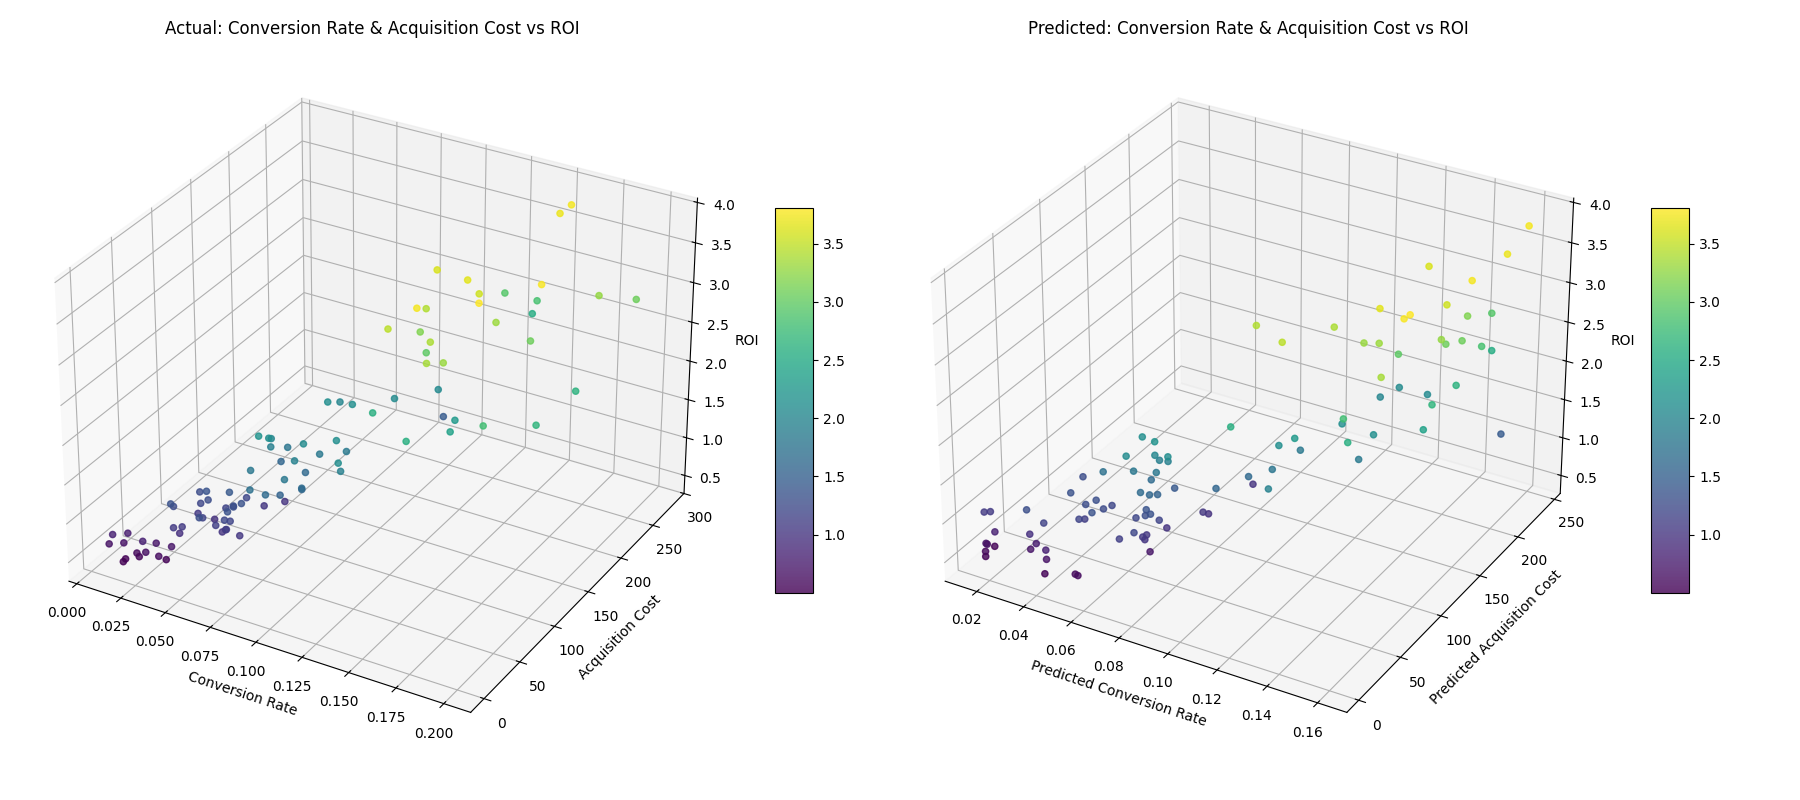
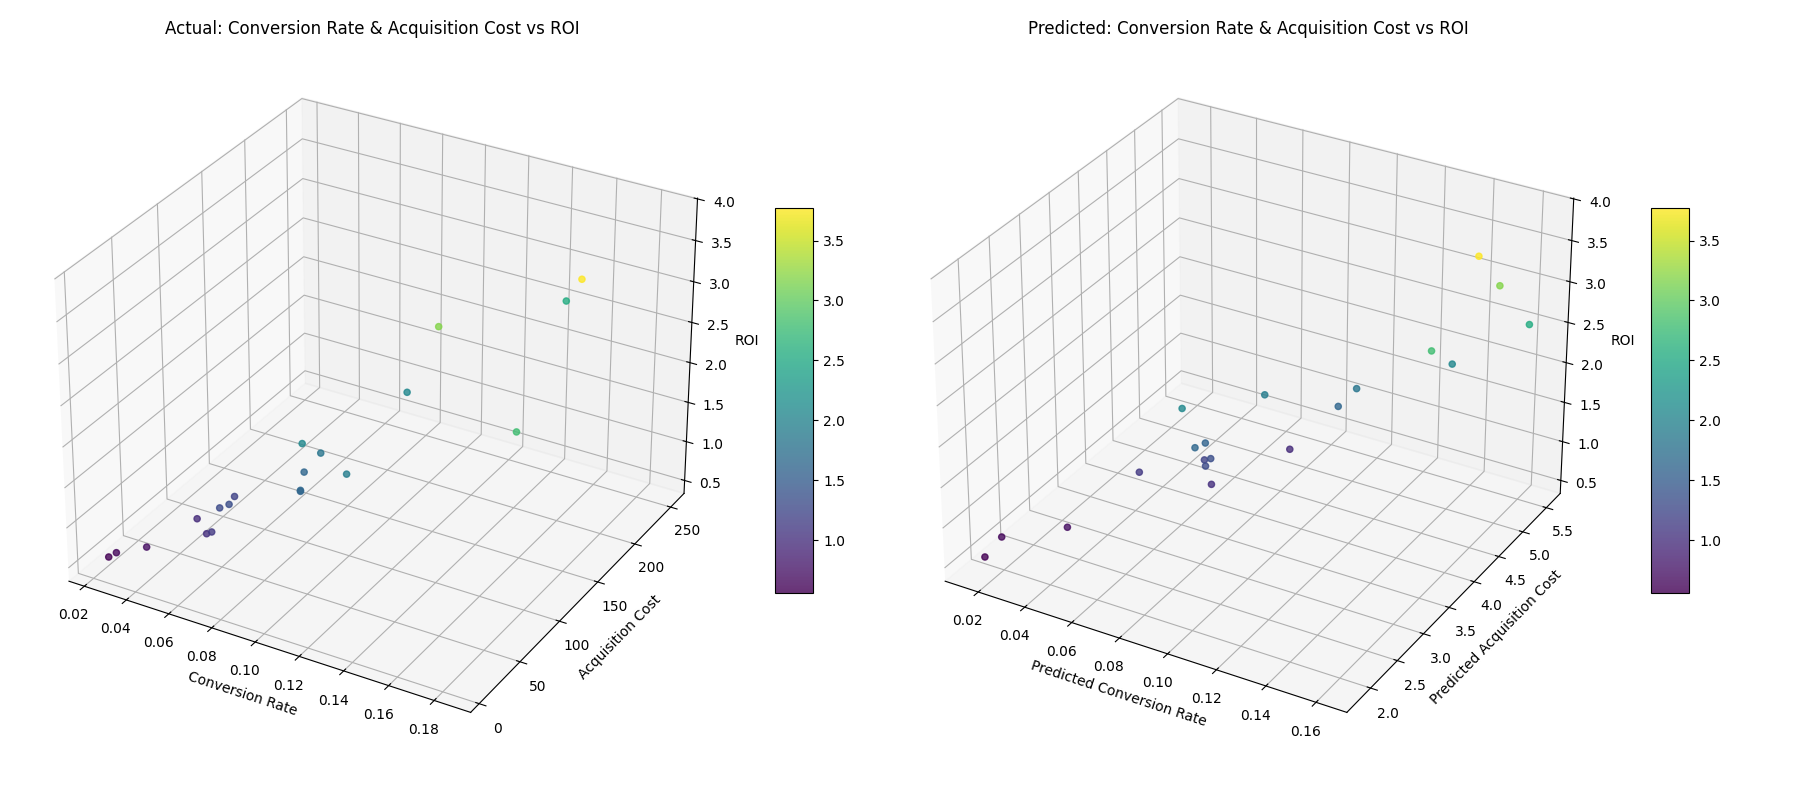
Updated campaign ROI to include train test split

diff --git a/measuring_campaign_roi/scripts/main.py b/measuring_campaign_roi/scripts/main.py
@@ -1,11 +1,12 @@
 import os
+from sklearn.model_selection import train_test_split
 from load_data import load_data
 from data_preprocessing import preprocess_data
 from eda import plot_boxplots, plot_lineplots, plot_3d_roi
 from acquisition_cost_model import train_acquisition_cost_model
 from conversion_rate_model import train_conversion_rate_model
-from roi_model import train_roi_model
-from model_evaluation import evaluate_model_performance, evaluate_roi_model
+from roi_model import train_roi_model, predict_roi_model
+from model_evaluation import evaluate_model_performance
 
 
 def main():
@@ -22,47 +23,66 @@ def main():
     plot_boxplots(df, visuals_path)
     plot_lineplots(df, visuals_path)
 
+    # ---- Split data into training and testing ----
+    train_df, test_df = train_test_split(df, test_size=0.2, random_state=1)
+
     # ---- Acquisition Cost Model ----
-    X_cost = df[['campaign_type', 'campaign_duration', 'campaign_language']]
-    y_cost = df['log_acquisition_cost']
+    X_cost_train = train_df[['campaign_type', 'campaign_duration', 'campaign_language']]
+    y_cost_train = train_df['log_acquisition_cost']
     cat_cost = ['campaign_type', 'campaign_language']
     num_cost = ['campaign_duration']
 
-    cost_model, preds_cost, true_cost, cost_coef_df = train_acquisition_cost_model(X_cost, y_cost, cat_cost, num_cost)
+    cost_model, preds_cost, true_cost, cost_coef_df = train_acquisition_cost_model(X_cost_train, y_cost_train, cat_cost, num_cost)
     print("ACQUISITION COST MODEL COEFFICIENTS")
     print(cost_coef_df)
 
-    cost_metrics = evaluate_model_performance(preds_cost, true_cost, num_features=len(cost_coef_df))
+    # Predictions on test set
+    X_cost_test = test_df[['campaign_type', 'campaign_duration', 'campaign_language']]
+    preds_cost_test = cost_model.predict(X_cost_test)
+    true_cost_test = test_df['log_acquisition_cost']
+
+    cost_metrics = evaluate_model_performance(preds_cost_test, true_cost_test, num_features=len(cost_coef_df))
     print("ACQUISITION COST MODEL EVALUATION")
     print(cost_metrics)
+    print("\n")
 
-    # ---- Conversion Rate Model ----
-    X_conv = df[['campaign_type', 'target_audience']]
-    y_conv = df['conversion_rate']
+     # ---- Conversion Rate Model ----
+    X_conv_train = train_df[['campaign_type', 'target_audience']]
+    y_conv_train = train_df['conversion_rate']
     cat_conv = ['campaign_type', 'target_audience']
 
-    conv_model, preds_conv, true_conv, conv_coef_df = train_conversion_rate_model(X_conv, y_conv, cat_conv)
+    conv_model, _, _, conv_coef_df = train_conversion_rate_model(X_conv_train, y_conv_train, cat_conv)
     print("CONVERSION RATE MODEL COEFFICIENTS")
     print(conv_coef_df)
+    print("\n")
 
-    conv_metrics = evaluate_model_performance(preds_conv, true_conv, num_features=len(conv_coef_df))
+    # Predictions on test set
+    X_conv_test = test_df[['campaign_type', 'target_audience']]
+    preds_conv_test = conv_model.predict(X_conv_test)
+    true_conv_test = test_df['conversion_rate']
+
+    conv_metrics = evaluate_model_performance(preds_conv_test, true_conv_test, num_features=len(conv_coef_df))
     print("CONVERSION RATE MODEL EVALUATION")
     print(conv_metrics)
+    print("\n")
 
     # ---- ROI Model ----
-    roi_model, X_roi_scaled, scaler = train_roi_model(preds_conv, preds_cost, df['roi'])
-    print("ROI MODEL COEFFICIENTS")
-    print(dict(zip(['Conversion Rate', 'Cost'], roi_model.coef_)))
+    roi_model, __, roi_scaler = train_roi_model(preds_conv_test, preds_cost_test, test_df['roi'])
 
-    mean_r2, mean_mse, mean_rmse = evaluate_roi_model(preds_conv, preds_cost, df['roi'])
-    print("ROI MODEL EVALUATION")
-    print(f"Mean R²: {mean_r2:.4f}")
-    print(f"Mean MSE: {mean_mse:.4f}")
-    print(f"Mean RMSE: {mean_rmse:.4f}")
+    preds_roi_test = predict_roi_model(roi_model, roi_scaler, preds_conv_test, preds_cost_test)
+
+    roi_metrics = evaluate_model_performance(preds_roi_test, test_df['roi'], num_features=2)
+    print("ROI MODEL TEST EVALUATION")
+    print(roi_metrics)
+    print("\n")
+
+    # ---- Save predictions to CSV ----
+    predictions_df = test_df.copy()
+    predictions_df['predicted_roi'] = preds_roi_test
+    predictions_df.to_csv(os.path.join(project_root, "measuring_campaign_roi", "output_predictions.csv"), index=False)
 
     # ---- ROI 3D Visualization ----
-    plot_3d_roi(df, preds_conv, preds_cost, visuals_path)
-
+    plot_3d_roi(test_df, preds_conv_test, preds_cost_test, visuals_path)
 
 if __name__ == '__main__':
     main()

diff --git a/measuring_campaign_roi/scripts/model_evaluation.py b/measuring_campaign_roi/scripts/model_evaluation.py
@@ -17,42 +17,13 @@ def evaluate_model_performance(preds, true_vals, num_features):
     """
     n = len(true_vals)
     mse = mean_squared_error(true_vals, preds)
-    rmse = np.sqrt(mse)
+    rmse = (mse)**0.5
     r2 = r2_score(true_vals, preds)
     adj_r2 = 1 - (1 - r2) * (n - 1) / (n - num_features - 1)
 
     return {
-        "MSE": mse,
-        "RMSE": rmse,
-        "R2": r2,
-        "Adjusted R2": adj_r2
+        "MSE": round(mse,2),
+        "RMSE": round(rmse,2),
+        "R2": round(r2,2),
+        "Adjusted R2": round(adj_r2,2)
     }
-
-
-def evaluate_roi_model(preds_conv, preds_cost, y_roi, cv=3):
-    """
-    Evaluates an ROI regression model using predicted conversion rate and cost.
-    Applies k-fold CV to estimate R², MSE, and RMSE.
-
-    Parameters:
-    - preds_conv (array-like): Predicted conversion rates
-    - preds_cost (array-like): Predicted acquisition costs
-    - y_roi (array-like): Actual ROI values
-    - cv (int): Number of cross-validation folds (default = 3)
-
-    Returns:
-    - mean_r2 (float): Mean R² across folds
-    - mean_mse (float): Mean MSE across folds
-    - mean_rmse (float): Mean RMSE across folds
-    """
-    X_roi = np.column_stack([preds_conv, preds_cost])
-    model = LinearRegression()
-
-    cv_scores_r2 = cross_val_score(model, X_roi, y_roi, cv=cv, scoring='r2')
-    mean_r2 = np.mean(cv_scores_r2)
-
-    preds = cross_val_predict(model, X_roi, y_roi, cv=cv)
-    mean_mse = mean_squared_error(y_roi, preds)
-    mean_rmse = np.sqrt(mean_mse)
-
-    return mean_r2, mean_mse, mean_rmse

diff --git a/measuring_campaign_roi/scripts/roi_model.py b/measuring_campaign_roi/scripts/roi_model.py
@@ -2,7 +2,7 @@ import numpy as np
 from sklearn.linear_model import LinearRegression
 from sklearn.preprocessing import StandardScaler
 
-def train_roi_model(preds_conv, preds_cost, y_roi):
+def train_roi_model(preds_conv, preds_cost, y_roi_train):
     """
     Trains a linear regression model to predict ROI using predicted conversion rate
     and predicted acquisition cost as inputs. Standardizes features before training.
@@ -25,6 +25,25 @@ def train_roi_model(preds_conv, preds_cost, y_roi):
 
     # Train linear regression model
     model = LinearRegression()
-    model.fit(X_roi_scaled, y_roi)
+    model.fit(X_roi_scaled, y_roi_train)
 
     return model, X_roi_scaled, scaler
+
+def predict_roi_model(model, scaler, X_conv_test, X_cost_test):
+    """
+    Predicts ROI using the trained model and scaler.
+
+    Parameters:
+    - model (LinearRegression): Trained linear regression model
+    - scaler (StandardScaler): Scaler used for feature standardization
+    - X_conv_test (array-like): Predicted conversion rates for test set
+    - X_cost_test (array-like): Predicted acquisition costs for test set
+
+    Returns:
+    - preds (ndarray): Predicted ROI values
+    """
+    X_roi_test = np.column_stack([X_conv_test, X_cost_test])
+    X_roi_scaled_test = scaler.transform(X_roi_test)
+
+    preds = model.predict(X_roi_scaled_test)
+    return preds
